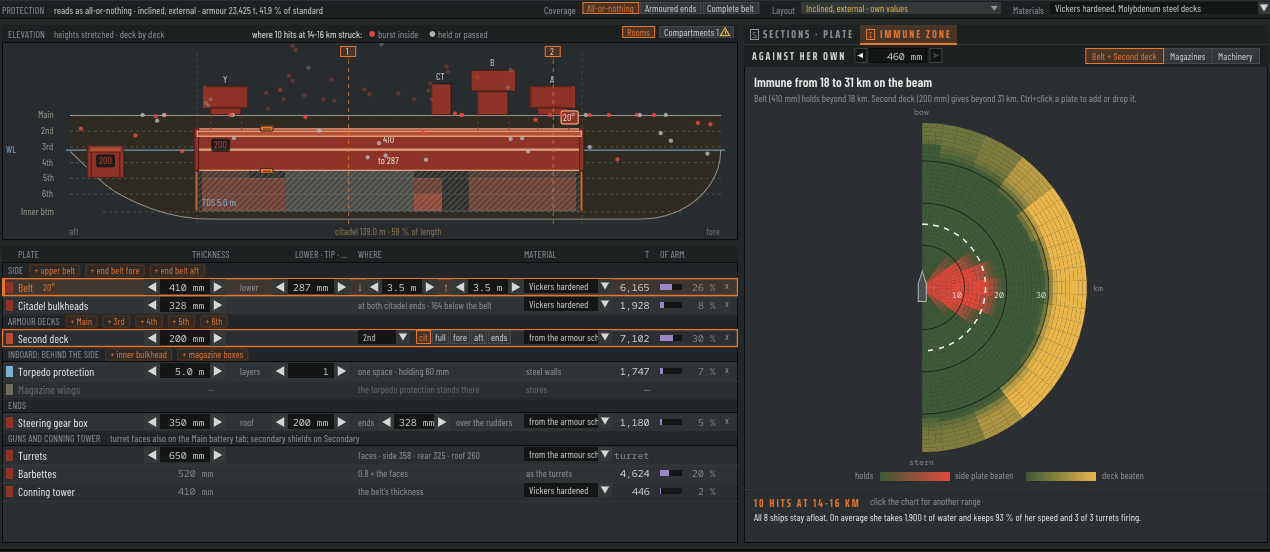
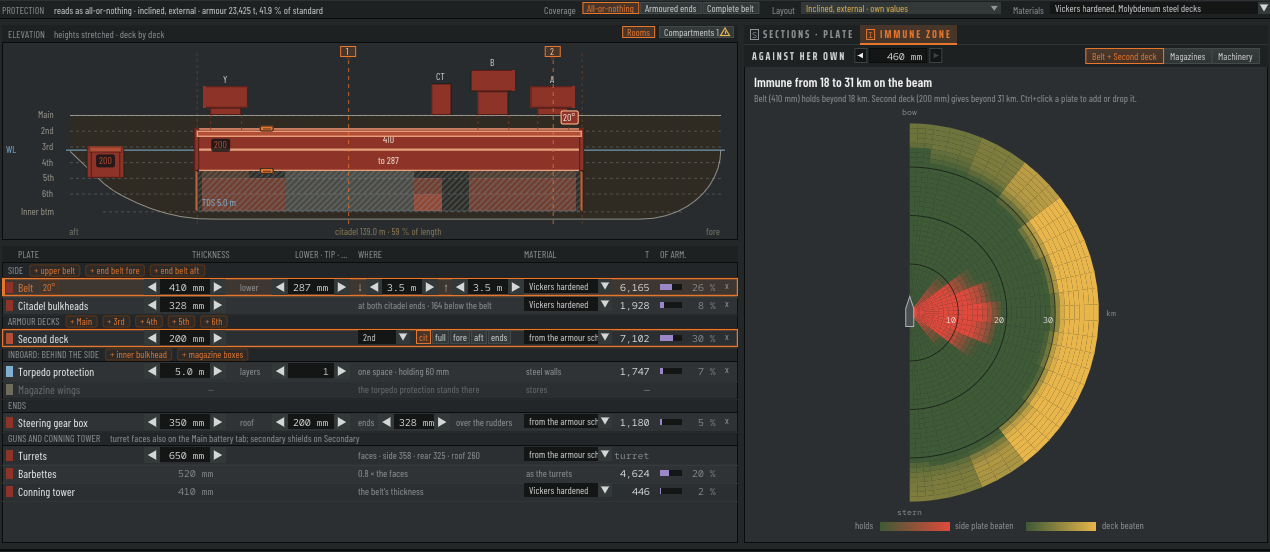
Immune zone: no damage analysis in the designer; the shells fired in anger leave the tab
The user: the designer answers whether shells meaningfully penetrate; the
booms are found in play. No flash path; the sentence under the chart, the
range picked and the hits' dots on the elevation are gone, the chart takes
the room. AngerRun and shipgen immune --anger stay as the bench.

Changed region(s): [[0.5835, 0.1848, 0.9213, 0.9855], [0.215, 0.0616, 0.3685, 0.0924], [0.7677, 0.2464, 0.7984, 0.2772]]

diff --git a/src/Fleetwright/Designer/DesignerScene.Immune.cs b/src/Fleetwright/Designer/DesignerScene.Immune.cs
@@ -10,9 +10,9 @@ namespace Fleetwright.Designer;
 /// <summary>The Protection tab's Immune zone (docs/designer-ui/immune-zone.md, the mockup immune.html): the right column's
 /// second tab. Against her own main battery at a calibre (her own shells at it): the plates picked on the left (a click
 /// one, ctrl+click several, as on the battle map; the main belt and her thickest deck by default) tested at their
-/// centres, or her magazines or machinery; a half-polar chart by range and target angle, blended from holds to beaten; a
-/// headline; and what her own hits do at the range picked on the chart, with their dots on the elevation. The runs are
-/// <see cref="ImmuneWorker"/>'s.</summary>
+/// centres, or her magazines or machinery; a half-polar chart by range and target angle, blended from holds to beaten; and
+/// a headline. Whether shells get through, never what they do after: the booms are found in play (the user, 2026-11-14).
+/// The runs are <see cref="ImmuneWorker"/>'s.</summary>
 public sealed unsafe partial class DesignerScene
 {
     ImmuneWorker? immune;
@@ -21,7 +21,6 @@ public sealed unsafe partial class DesignerScene
     List<PRef> immuneNow = [];   // this frame's: the picked, or the default
     int immuneView;   // 0 the plates, 1 the magazines, 2 the machinery
     double immuneCal = double.NaN;   // NaN: her own
-    double immuneKm = 15;
 
     /// <summary>The calibres the stepper walks (and her own), mm.</summary>
     static readonly double[] ImmuneCalibres = [76, 102, 120, 127, 140, 152, 203, 234, 254, 280, 305, 343, 356, 381, 406, 460];
@@ -143,7 +142,7 @@ public sealed unsafe partial class DesignerScene
         var d = doc.Current;
         var picks = immuneNow.Select(r => PickOf(r, d)).OfType<PlatePick>().Distinct().ToArray();
         immune ??= new ImmuneWorker();
-        immune.Want(new ImmuneWorker.Ask(ship, design, cal, picks, immuneView > 0, immuneKm * 1000));
+        immune.Want(new ImmuneWorker.Ask(ship, design, cal, picks, immuneView > 0));
         var res = immune.Now;
         bool ready = res != null && ReferenceEquals(res.Ship, ship) && res.CalibreMm == cal && res.Class != null;
 
@@ -194,9 +193,9 @@ public sealed unsafe partial class DesignerScene
         y += UiFonts.Title.FontSize + P(3);
         y += dl.Wrapped(font, new Vector2(pos.X + P(10), y), T.Muted, why, size.X - P(20)) + P(4);
 
-        // the chart, the key (or the cell under the mouse) and the range picked
-        float angerH = P(54), keyH = P(18);
-        float chartH = pos.Y + size.Y - angerH - keyH - y - P(4);
+        // the chart, and the key (or the cell under the mouse)
+        float keyH = P(18);
+        float chartH = pos.Y + size.Y - keyH - y - P(8);
         float rad = MathF.Max(P(40), MathF.Min(chartH / 2 - P(12), size.X - P(120)));
         var c = new Vector2(pos.X + (size.X - rad) / 2, y + chartH / 2);
         string? hover = ImmuneChart(dl, c, rad, z0, zones, cal);
@@ -205,7 +204,6 @@ public sealed unsafe partial class DesignerScene
             dl.Text(font, new Vector2(pos.X + (size.X - Width(font, hover)) / 2, ky), T.Bright, hover);
         else
             ImmuneKey(dl, new Vector2(pos.X + size.X / 2, ky), zones);
-        ImmuneAnger(dl, new Vector2(pos.X, pos.Y + size.Y - angerH), new Vector2(size.X, angerH), res!);
     }
 
     /// <summary>The headline and the line under it: a plate alone, the plates together (their zone, then each in a
@@ -308,7 +306,7 @@ public sealed unsafe partial class DesignerScene
 
     /// <summary>The chart: her plan at the centre, bow up, the target angle round it and the range out from it; each cell
     /// blended from holds (green) to beaten, red where a side plate gives, amber where a deck does (beaten where any plate
-    /// picked is). Rings every 10 km, the range picked dashed. A click picks a range; the cell under the mouse in words.</summary>
+    /// picked is). Rings every 10 km; the cell under the mouse in words.</summary>
     string? ImmuneChart(ImDrawListPtr dl, Vector2 c, float rad, ImmuneZone z0, List<(ImmuneZone Z, ZoneTarget T, bool Lies, PRef R)> zones, double cal)
     {
         int n = z0.RangesM.Length, na = ImmuneZone.Angles.Length;
@@ -345,7 +343,7 @@ public sealed unsafe partial class DesignerScene
                 }
             }
         }
-        // rings every 10 km, labelled on the beam; the range picked dashed
+        // rings every 10 km, labelled on the beam
         var font = UiFonts.MonoSmall;
         for (double m = 10000; m < reach; m += 10000)
         {
@@ -353,12 +351,6 @@ public sealed unsafe partial class DesignerScene
             dl.PathStroke(T.U32(T.Edge with { W = 0.6f }), ImDrawFlags.None, 1);
             string s = $"{m / 1000:0}";
             dl.Text(font, new Vector2(c.X + Rad(m) - Width(font, s) - P(2), c.Y + P(2)), T.Bright, s);
-        }
-        float rk = Rad(immuneKm * 1000);
-        for (int k = 0; k < 36; k += 2)
-        {
-            dl.PathArcTo(c, rk, -MathF.PI / 2 + MathF.PI * k / 36, -MathF.PI / 2 + MathF.PI * (k + 1) / 36, 4);
-            dl.PathStroke(T.U32(T.Bright), ImDrawFlags.None, P(1.5f));
         }
         dl.Text(font, new Vector2(c.X + rad + P(4), c.Y - font.FontSize / 2), T.Muted, "km");
         dl.Text(font, new Vector2(c.X - Width(font, "bow") / 2, c.Y - rad - P(14)), T.Muted, "bow");
@@ -370,7 +362,7 @@ public sealed unsafe partial class DesignerScene
             dl.AddConvexPolyFilled(ref hp[0], hull.Length, T.U32(T.DrawingMid));
             dl.AddPolyline(ref hp[0], hull.Length, T.U32(T.PlanLine), ImDrawFlags.Closed, 1);
         }
-        // the mouse: a cell in words, a click picks its range
+        // the mouse: a cell in words
         ImGui.SetCursorScreenPos(c - new Vector2(0, rad));
         ImGui.InvisibleButton("##izchart", new Vector2(rad, 2 * rad));
         if (!ImGui.IsItemHovered())
@@ -379,8 +371,6 @@ public sealed unsafe partial class DesignerScene
         float dist = mv.Length();
         if (mv.X < 0 || dist > rad)
             return null;
-        if (ImGui.IsItemClicked())
-            immuneKm = Math.Max(1, Math.Round(dist / rad * reach / 1000));
         int ai = Math.Clamp((int)Math.Round(Math.Atan2(mv.X, -mv.Y) * 180 / Math.PI / 15), 0, na - 1);
         int ri = Math.Clamp((int)Math.Ceiling(dist / rad * reach / ImmuneZone.RangeStepM) - 1, 0, n - 1);
         {
@@ -432,68 +422,6 @@ public sealed unsafe partial class DesignerScene
             x += bw + P(6);
             dl.Text(font, new Vector2(x, mid.Y), T.Muted, lbl);
             x += Width(font, lbl) + P(12);
-        }
-    }
-
-    /// <summary>Her own hits at the range picked on the chart, in a sentence (<see cref="ImmuneWorker.AngerShips"/> ships
-    /// of <see cref="ImmuneWorker.AngerHits"/> hits each, settled half an hour).</summary>
-    void ImmuneAnger(ImDrawListPtr dl, Vector2 pos, Vector2 size, ImmuneWorker.Results res)
-    {
-        dl.AddLine(pos, pos + new Vector2(size.X, 0), T.U32(T.Line));
-        float x = pos.X + P(10), y = pos.Y + P(5);
-        var run = res.Anger;
-        int b = res.AngerDone;
-        var band = run != null && b >= 0 ? run.Bands[b] : null;
-        string title = band != null ? $"{ImmuneWorker.AngerHits} HITS AT {band.FromM / 1000:0}-{band.ToM / 1000:0} KM" : $"{ImmuneWorker.AngerHits} HITS AT {immuneKm:0} KM";
-        dl.Text(UiFonts.Head, new Vector2(x, y), T.Brass, title);
-        dl.Text(UiFonts.SansSmall, new Vector2(x + Width(UiFonts.Head, title) + P(10), y + P(1)), T.Muted, "click the chart for another range");
-        y += P(17);
-        if (band == null)
-        {
-            dl.Text(UiFonts.SansSmall, new Vector2(x, y), T.Muted, "Firing at her…");
-            return;
-        }
-        var r = band.Report;
-        int ships = Math.Max(r.Ships, 1);
-        int mounts = (int)Math.Round(r.MainMounts / ships), working = (int)Math.Round(r.MainWorking / ships);
-        string[] how = ["magazine", "flooding", "capsizing", "breaking in two"];
-        int worst = 1;
-        for (int k = 2; k < r.LostBy.Length; k++)
-            if (r.LostBy[k] > r.LostBy[worst])
-                worst = k;
-        string lost = r.Lost == 0 ? $"All {r.Ships} ships stay afloat." : $"{r.Lost} of {r.Ships} ships are lost (most to {how[Math.Clamp(worst - 1, 0, 3)]}).";
-        string rest = $" On average she takes {Math.Round(r.WaterT / ships / 100) * 100:N0} t of water and keeps {100 * r.SpeedShare / ships:0} % of her speed" +
-                      (mounts > 0 ? $" and {working} of {mounts} turrets firing." : ".");
-        dl.Wrapped(UiFonts.SansSmall, new Vector2(x, y), T.Bright, lost + rest, size.X - P(20));
-    }
-
-    /// <summary>Where her own hits at the range picked struck, on the elevation: burst inside her (red) or held or passed
-    /// (grey); over her main deck faint (the elevation draws only the turrets there).</summary>
-    void ImmuneDots(ImDrawListPtr dl, ElevMap m, Vector2? head = null)
-    {
-        if (!protImmune || immune?.Now is not { Anger: { } run, AngerDone: >= 0 } res || !ReferenceEquals(res.Ship, shown?.Ship))
-            return;
-        var band = run.Bands[res.AngerDone];
-        if (head == null)
-        {
-            foreach (var dot in band.Dots)
-            {
-                var col = dot.Class == 0 ? T.Hostile : T.PlanLine;
-                dl.AddCircleFilled(new Vector2(m.X((float)dot.Point.X), m.Z((float)dot.Point.Z)), P(2.2f), T.U32(col with { W = dot.Point.Z > 0.5 ? 0.3f : 0.85f }));
-            }
-            return;
-        }
-        // the key, in the elevation's head strip
-        var font = UiFonts.SansSmall;
-        string t = $"where {ImmuneWorker.AngerHits} hits at {band.FromM / 1000:0}-{band.ToM / 1000:0} km struck:";
-        float x = head.Value.X;
-        dl.Text(font, new Vector2(x, head.Value.Y), T.Bright, t);
-        x += Width(font, t) + P(10);
-        foreach (var (lbl, col) in new[] { ("burst inside", T.Hostile), ("held or passed", T.PlanLine) })
-        {
-            dl.AddCircleFilled(new Vector2(x, head.Value.Y + font.FontSize / 2), P(3), T.U32(col));
-            dl.Text(font, new Vector2(x + P(6), head.Value.Y), T.Muted, lbl);
-            x += P(6) + Width(font, lbl) + P(14);
         }
     }
 }

diff --git a/src/Fleetwright/Designer/ImmuneWorker.cs b/src/Fleetwright/Designer/ImmuneWorker.cs
@@ -9,7 +9,9 @@ namespace Fleetwright.Designer;
 
 /// <summary>The designer's immune zone (docs/designer-ui/immune-zone.md IZ4), off the render thread: for the shown ship
 /// and a calibre of her own main battery (her own shells at it), a zone a plate picked (each at its centre), her armour's
-/// summary (belt, barbettes, deck), her vitals when asked, and the shells fired in anger at the range picked. Each zone
+/// summary (belt, barbettes, deck) and her vitals when asked: whether shells get through, not what they do after (the user,
+/// 2026-11-14: "The user wants to know if shells meaningfully penetrate when designing a ship and then the actual booms
+/// are discovered during gameplay"; shells fired in anger stay a bench's, `shipgen immune --anger`). Each zone
 /// fills to <see cref="First"/> shells a cell and is shown, then refines to <see cref="Refined"/> where it matters. A
 /// newer ask cancels the work in hand; what was done for the same ship and calibre is kept.</summary>
 sealed class ImmuneWorker : IDisposable
@@ -17,14 +19,11 @@ sealed class ImmuneWorker : IDisposable
     /// <summary>The shells a cell first, and where it matters after (decision 10; "fast first", the user).</summary>
     public const int First = 8, Refined = 32;
 
-    /// <summary>The ships a range band is fired at, and the hits each.</summary>
-    public const int AngerShips = 8, AngerHits = 10;
-
     /// <summary>What the tab asks for: the shown ship (and the design it was built from), the calibre, the plates picked,
-    /// whether the vitals are looked at, and the range picked for the shells fired in anger (m).</summary>
-    public sealed record Ask(Ship Ship, Design Design, double CalibreMm, PlatePick[] Plates, bool Vitals, double AngerM)
+    /// and whether the vitals are looked at.</summary>
+    public sealed record Ask(Ship Ship, Design Design, double CalibreMm, PlatePick[] Plates, bool Vitals)
     {
-        public bool Same(Ask o) => ReferenceEquals(Ship, o.Ship) && CalibreMm == o.CalibreMm && Vitals == o.Vitals && AngerM == o.AngerM &&
+        public bool Same(Ask o) => ReferenceEquals(Ship, o.Ship) && CalibreMm == o.CalibreMm && Vitals == o.Vitals &&
                                    Plates.AsSpan().SequenceEqual(o.Plates);
     }
 
@@ -39,9 +38,6 @@ sealed class ImmuneWorker : IDisposable
         public string? Error;
         public readonly ConcurrentDictionary<PlatePick, ImmuneZone> Plates = new();
         public volatile ImmuneZone? Armour, Vitals;
-        public volatile AngerRun? Anger;
-        /// <summary>The band whose ships are all fired (-1: none yet).</summary>
-        public volatile int AngerDone = -1;
     }
 
     readonly object gate = new();
@@ -153,18 +149,6 @@ sealed class ImmuneWorker : IDisposable
                 token.ThrowIfCancellationRequested();
                 r.Plates[p] = z;
             }
-        // the range picked: the shells fired in anger there
-        r.Anger ??= new AngerRun(r.Class, r.Shell, r.MaxElevationDeg, settings, 1, AngerHits);
-        int band = Array.FindIndex(r.Anger.Bands, x => ask.AngerM >= x.FromM && ask.AngerM < x.ToM);
-        if (band < 0 && r.Anger.Bands.Length > 0)
-            band = ask.AngerM < r.Anger.Bands[0].FromM ? 0 : r.Anger.Bands.Length - 1;
-        if (band >= 0)
-        {
-            r.AngerDone = r.Anger.Bands[band].Fired >= AngerShips ? band : -1;
-            r.Anger.FillBand(band, AngerShips, token);
-            token.ThrowIfCancellationRequested();
-            r.AngerDone = band;
-        }
         foreach (var p in ask.Plates)
         {
             r.Plates[p].Refine(Refined, [ZoneTarget.Plate], threads, token);

diff --git a/src/Fleetwright/Designer/DesignerScene.Protection.cs b/src/Fleetwright/Designer/DesignerScene.Protection.cs
@@ -1858,7 +1858,7 @@ public sealed unsafe partial class DesignerScene
         switch (p[0])
         {
             case "immune":
-                // immune[:CALIBRE[:PLATE+PLATE...[:KM]]] opens the Immune zone (PLATE: belt, upper, end_fore, end_aft, bulk, deckN,
+                // immune[:CALIBRE[:PLATE+PLATE...]] opens the Immune zone (PLATE: belt, upper, end_fore, end_aft, bulk, deckN,
                 // slopes, turrets, barbettes, ct; magazines or machinery for those views)
                 protImmune = true;
                 if (p.Length > 1 && double.TryParse(p[1], System.Globalization.NumberStyles.Float, System.Globalization.CultureInfo.InvariantCulture, out double cal))
@@ -1889,8 +1889,6 @@ public sealed unsafe partial class DesignerScene
                         });
                     }
                 }
-                if (p.Length > 3 && double.TryParse(p[3], System.Globalization.NumberStyles.Float, System.Globalization.CultureInfo.InvariantCulture, out double km))
-                    immuneKm = km;
                 return true;
             case "protsel" when p.Length > 1:
                 string id = p[1];

diff --git a/src/Fleetwright/Designer/DesignerScene.ProtectionDrawings.cs b/src/Fleetwright/Designer/DesignerScene.ProtectionDrawings.cs
@@ -262,9 +262,7 @@ public sealed unsafe partial class DesignerScene
         int flagHot = Flags(dl, m, pos, size, pp, mouse, hover && ghostHot == null, clickL);
         var plateHot = protDrag == DragKind.None && hover && ghostHot == null && flagHot < 0 ? HitPlate(mouse) : null;
         var handleHot = flagHot >= 0 ? DragKind.Cut : ElevHandles(dl, m, pp, mouse, hover, clickL);
-        ImmuneDots(dl, m);
         dl.PopClipRect();
-        ImmuneDots(dl, m, pos + new Vector2(P(250), P(3)));
         if (plateHot is { } ph && handleHot == DragKind.None)
         {
             protHotNext = ph;

diff --git a/docs/designer-ui/immune-zone.md b/docs/designer-ui/immune-zone.md
@@ -399,12 +399,22 @@ zone misled in two ways.
   called that a hold. A plate is now beaten by a shell through it at all, whole or in pieces (decision 13); the history
   checks keep the record's measure (`ImmuneZone.WholeOnly`, `--anchors`, unchanged). Her belt against her own gun: beaten
   out to 17 km on the beam (was 6), out to 12 km over 60-120 degrees (was the beam alone).
-- **The flash path isn't in the zone** (open, for the user). The magazines view counts shells that get into a magazine
+- **The flash path isn't in the zone**, and stays out (decision 14). The magazines view counts shells that get into a magazine
   space; the damage model loses her to shells through a turret or barbette lighting charges that flash down the ammunition
   train, which the zone's walk (the terminal alone, no effects) never runs. Her turrets are beaten at every range by
   their 260 mm roofs, her barbettes out to 18 km, and neither is in the default pick.
 
 ![Yamato against her own 460 mm, after the fix](png/immune-game-yamato-460.png)
+
+**No damage analysis in the designer** (the user, 2026-11-14: "There is no need to do full damage analysis on the
+designer side. The user wants to know if shells meaningfully penetrate when designing a ship and then the actual booms
+are discovered during gameplay. Admiralty didn't have access to ultra realistic physical simulations on their ships
+blowing up which this thing would be."; decision 14). So no flash path, and the shells fired in anger leave the tab: the
+sentence under the chart (ships lost, water, speed, turrets), the range picked on the chart and the hits' dots on the
+elevation. The chart takes the room. `AngerRun` and `shipgen immune --anger` stay as the developers' bench; the mockup
+(`immune.html`) still shows the sentence and the dots as they were reviewed.
+
+![Yamato against her own 460 mm, penetration only](png/immune-game-yamato-460.png)
 
 ## Decisions (user, 2026-11-14)
 
@@ -426,3 +436,5 @@ zone misled in two ways.
 12. **Ctrl+click tests plates together** (ctrl as on the battle map) (beaten where any is); the default is the main belt and her thickest deck.
 13. **A plate is beaten by a shell through it whole or in pieces** (a holed belt didn't hold); the record's whole-only
     measure stays for the history checks.
+14. **No damage analysis in the designer:** whether shells meaningfully penetrate, never what they do after (no flash
+    path, no shells fired in anger in the tab: the booms are found in play). The bench keeps `--anger`.

diff --git a/CLAUDE.md b/CLAUDE.md
@@ -147,9 +147,8 @@ inner walls, and a drag edits once, on release. Its dev hooks: `-designer-ui=pro
 prottip:layout:N,protcomp,protrooms:0` (`DesignerScene.ApplyProtDevUi`). The right column's second tab is the Immune zone
 (`docs/designer-ui/immune-zone.md`, `DesignerScene.Immune.cs`, `ImmuneWorker`): against her own main battery at a calibre,
 the plates picked on the left (a click, ctrl+click for several; the main belt and her thickest deck by default) tested at
-their centres, or her magazines or machinery, on a half-polar chart by range and target angle; a click on the chart picks
-a range and her own hits there are told in a sentence, their dots on the elevation;
-`-designer-ui=immune[:CALIBRE[:PLATE+PLATE...[:KM]]]`. The Overview tab (`docs/designer-ui/overview.md`) is a trim sheet of
+their centres, or her magazines or machinery, on a half-polar chart by range and target angle: whether shells get
+through, never what they do after (the booms are found in play); `-designer-ui=immune[:CALIBRE[:PLATE+PLATE...]]`. The Overview tab (`docs/designer-ui/overview.md`) is a trim sheet of
 18 broad-stroke levers, each with what one step down and up does to the standard displacement, measured by real builds
 in the background (`DesignProbes`: validate and build only, on several threads, a newer batch supersedes); limits
 (mocked in `DesignLimits` until the gameplay layer hands them in) only report, never refuse; Fit is greyed out until the
